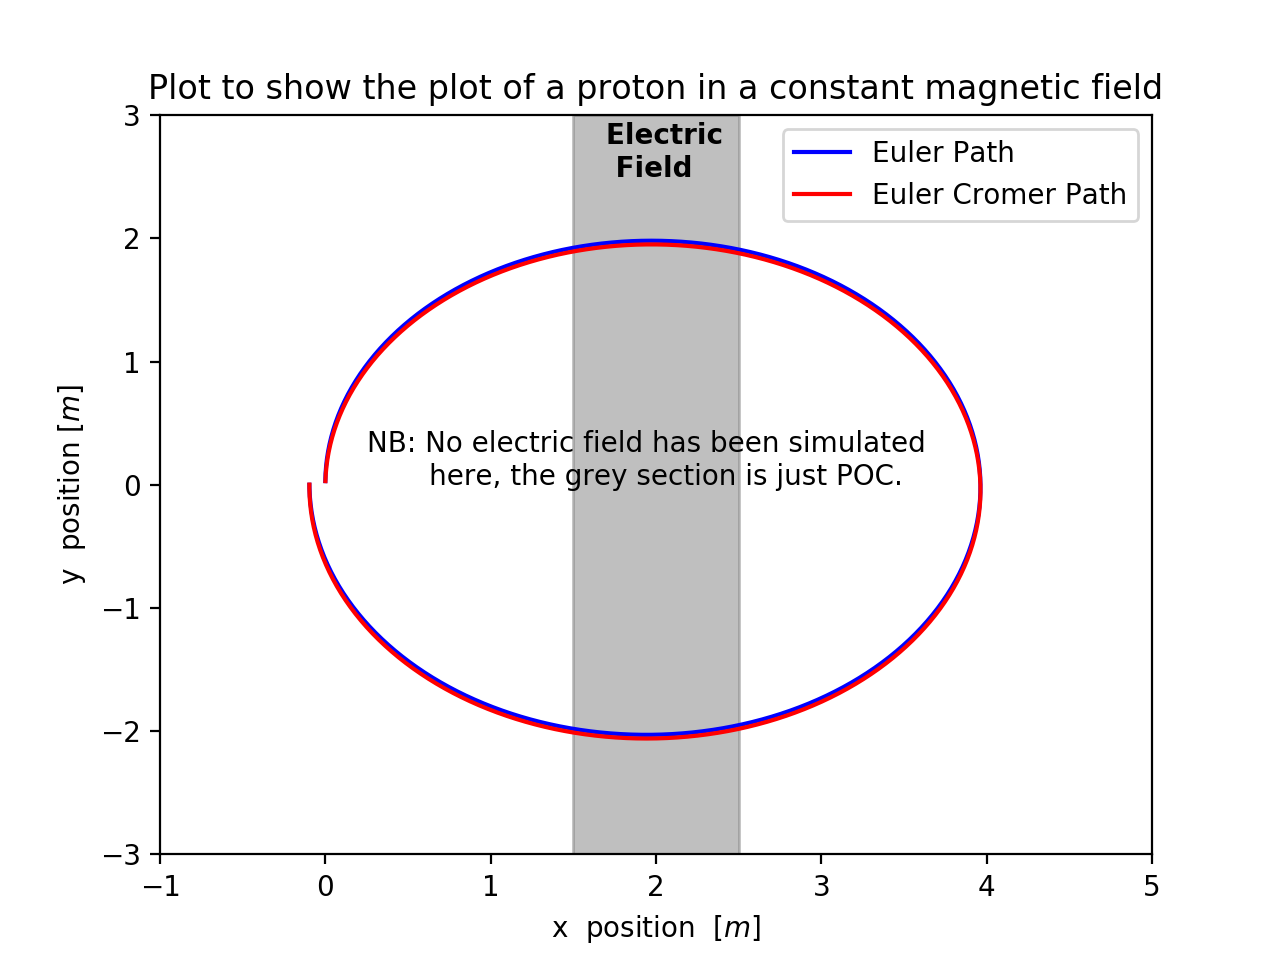
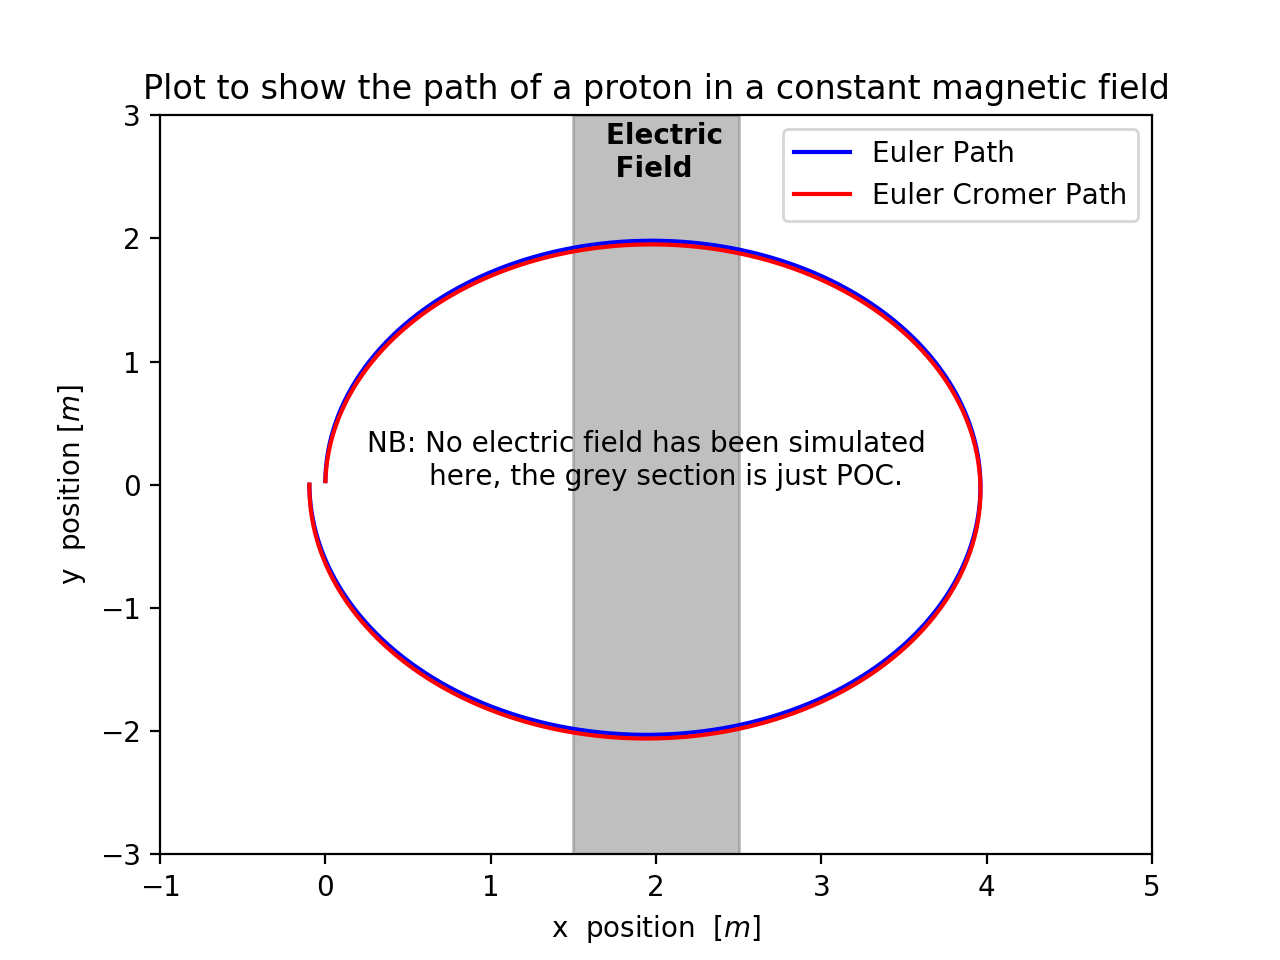
Added doc-strings to tests.

Changed region(s): [[0.0938, 0.0625, 0.9062, 0.125]]

diff --git a/Project/test_EMField.py b/Project/test_EMField.py
@@ -5,6 +5,11 @@ import scipy.constants as const
 import numpy as np
 
 def test_getAcceleration():
+    """
+    This function will test the getAcceleration method in the EMField class. The NumPy all-
+    close method checks that the returned value is equal to the hand-calculated expected value to 
+    9 significant figures. 
+    """
     proton = ChargedParticle('proton-1', const.m_p, const.e, [0,0,0], [2000,-4000,6000])
     field = EMField([-0.3,0.1,0.2], [6*10**(-5),-7*10**(-5),8*10**(-5)])
     charge_mass = const.physical_constants['proton charge to mass quotient'][0]

diff --git a/Project/main.py b/Project/main.py
@@ -42,6 +42,6 @@ plt.xlim(-1,5)
 plt.ylim(-3,3)
 plt.xlabel(r'x  position  [$m$]')
 plt.ylabel(r'y  position [$m$]')
-plt.title('Plot to show the plot of a proton in a constant magnetic field')
+plt.title('Plot to show the path of a proton in a constant magnetic field')
 plt.legend()
 plt.show()
